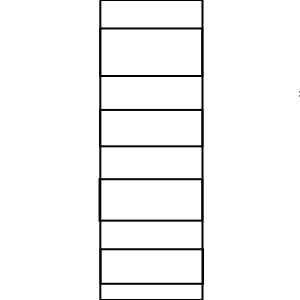
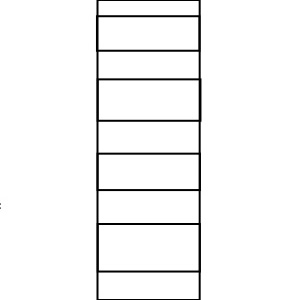
Add horizontal tracks

Changed region(s): [[0.3, 0.0, 0.69, 1.0], [0.99, 0.3, 1.0, 0.33]]

diff --git a/tracks.js b/tracks.js
@@ -2,7 +2,28 @@
 class Tracks{
     constructor() {
         const t = this;
+        t.selectedTrack = 'tracks_straight.jpg';
         t.grid = document.getElementById('grid');
+        
+        const straightOption = document.getElementById('straight');
+        const horizOption = document.getElementById('horiz');
+        
+        straightOption.style["background-image"] = "url('tracks_straight.jpg')";
+        horizOption.style["background-image"] = "url('tracks_horiz.jpg')";
+        straightOption.style["outline"] = "3px solid blue";
+        
+        straightOption.addEventListener('click', () => {
+            t.selectedTrack = 'tracks_straight.jpg';
+            straightOption.style["outline"] = "3px solid blue";
+            horizOption.style["outline"] = "";
+        });
+        
+        horizOption.addEventListener('click', () => {
+            t.selectedTrack = 'tracks_horiz.jpg';
+            horizOption.style["outline"] = "3px solid blue";
+            straightOption.style["outline"] = "";
+        });
+        
         for (let i = 0; i < 64;i++){
             const cell = document.createElement('div');
             cell.className = 'cell';
@@ -11,10 +32,17 @@ class Tracks{
             cell.addEventListener('click', (e) => { t.cell_click(t, e.target); });
             t.grid.appendChild(cell);
         }
-    } //end constructor
+    } 
     
     cell_click(t, el) {
-        el.style["background-color"] = "blue";
+        if (el.style["background-image"]) {
+            el.style["background-image"] = "";
+        } else {
+            el.style["background-image"] = "url('" + t.selectedTrack + "')";
+            el.style["background-size"] = "cover";
+            el.style["background-position"] = "center";
+            el.style["background-repeat"] = "no-repeat";
+        }
     }
     
 }

diff --git a/tracks.css b/tracks.css
@@ -1,3 +1,8 @@
+.container {
+    display: flex;
+    gap: 2em;
+}
+
 .grid {
     width: 80em;
     height: 80em;
@@ -13,4 +18,21 @@
     border: 1px solid black;
     box-sizing: border-box;  
     background-color: white;
+}
+
+.track-selector {
+    display: flex;
+    flex-direction: column;
+    gap: 1em;
+}
+
+.track-option {
+    width: 10em;
+    height: 10em;
+    border: 1px solid black;
+    box-sizing: border-box;
+    cursor: pointer;
+    background-size: cover;
+    background-position: center;
+    background-repeat: no-repeat;
 }

diff --git a/tracks.html b/tracks.html
@@ -12,6 +12,12 @@
         </script>
     </head>
     <body onload="init()">
-        <div id="grid" class="grid"></div>
+        <div class="container">
+            <div id="grid" class="grid"></div>
+            <div class="track-selector">
+                <div id="straight" class="track-option"></div>
+                <div id="horiz" class="track-option"></div>
+            </div>
+        </div>
     </body>
 </html>
